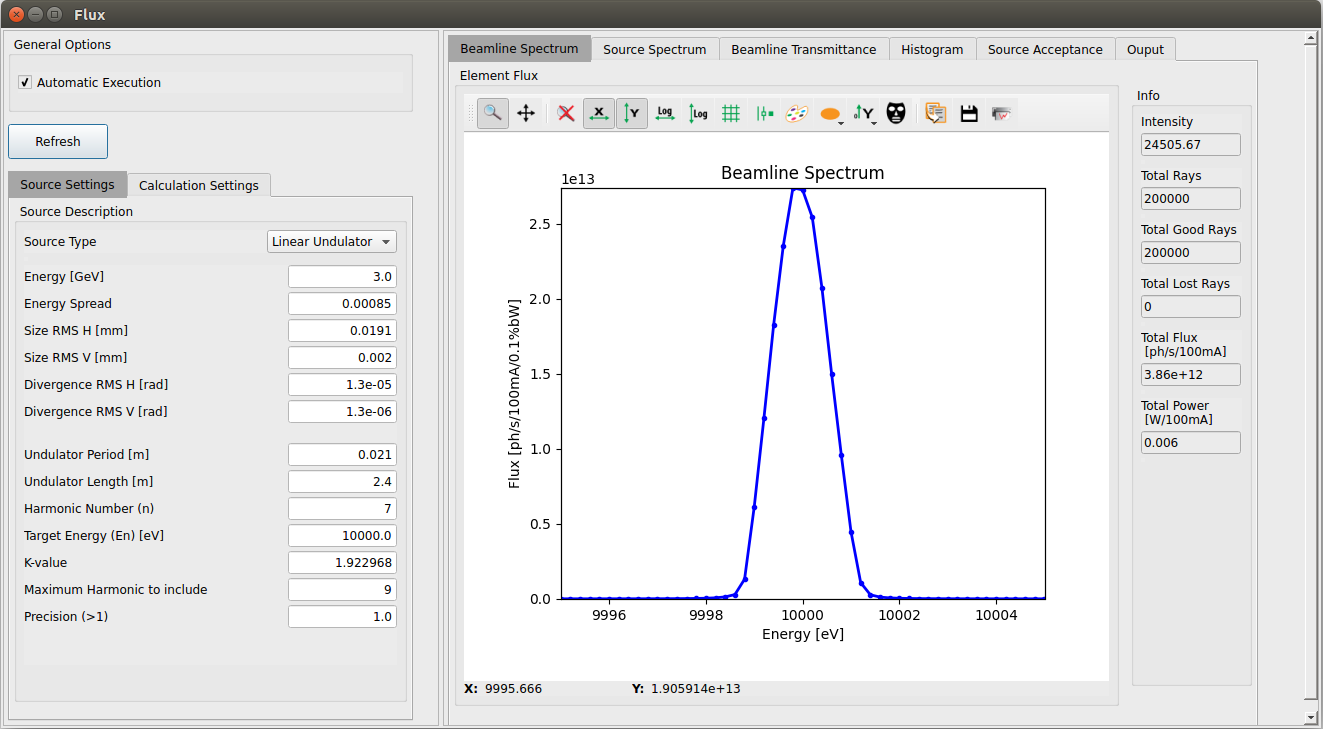
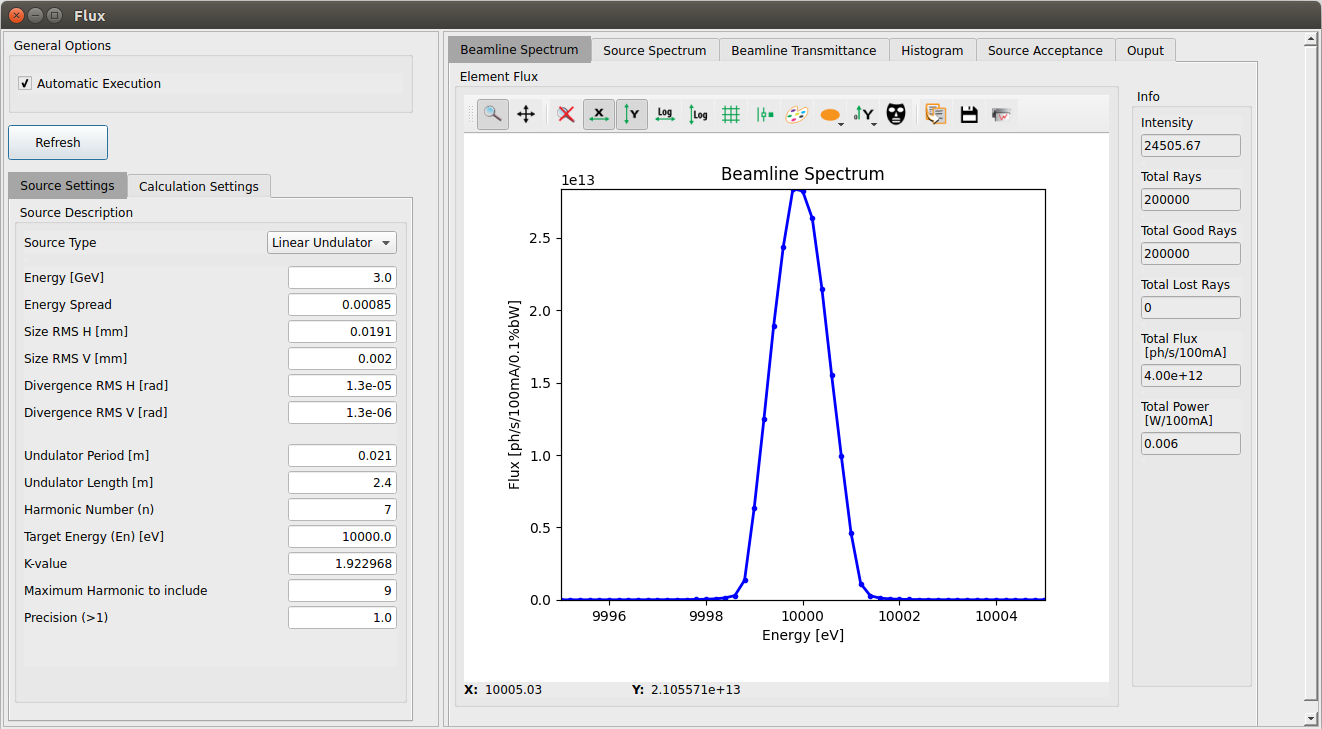
updating readmes

diff --git a/orangecontrib/shadow/lnls/menu/ow_shadow_LNLS_tools_menu.py b/orangecontrib/shadow/lnls/menu/ow_shadow_LNLS_tools_menu.py
@@ -1,6 +1,7 @@
 __author__ = 'labx'
 
 from PyQt5 import QtWidgets
+from PyQt5.QtGui import QPixmap
 from orangecanvas.scheme.link import SchemeLink
 from oasys.menus.menu import OMenu
 
@@ -11,84 +12,19 @@ class ShadowLNLSToolsMenu(OMenu):
         super().__init__(name="Shadow LNLS Tools")
 
         self.openContainer()
-        self.addContainer("Container 1")
-        self.addSubMenu("Submenu 1.1")
-        self.addSubMenu("Submenu 1.2")
-        self.closeContainer()
-        self.openContainer()
-        self.addContainer("Container 2")
-        self.addSubMenu("Submenu 2.1")
-        self.addSubMenu("Submenu 2.2")
-        self.addSeparator()
-        self.addSubMenu("Submenu 2.3")
-        self.closeContainer()
-        self.addSeparator()
-        self.addSubMenu("Submenu 3")
+        self.addContainer("LNLS Help")
+        self.addSubMenu("Help")        
+        self.closeContainer()        
+        
 
     def executeAction_1(self, action):
         try:
-            widget_desc_1 = self.getWidgetDesc("orangecontrib.shadow.widgets.sources.ow_geometrical_source.GeometricalSource")
-            widget_desc_2 = self.getWidgetDesc("orangecontrib.shadow.lnls.widgets.optical_elements.ow_test_widget.TestWidget")
-            widget_desc_3 = self.getWidgetDesc("orangecontrib.shadow.widgets.optical_elements.ow_plane_mirror.PlaneMirror")
-
-            nodes = []
-            messages = []
-
-            widget_1, node_1, messages_1 = self.createNewNodeAndWidget(widget_desc_1)
-            widget_2, node_2, messages_2 = self.createNewNodeAndWidget(widget_desc_2)
-            widget_3, node_3, messages_3 = self.createNewNodeAndWidget(widget_desc_3)
-
-            widget_1.single_line_value = 20000.0
-
-            widget_2.test_value = 34567.0
-
-            widget_3.source_plane_distance = 1000.0
-            widget_3.image_plane_distance = 3000.0
-
-            nodes.append(node_1)
-            nodes.append(node_2)
-            nodes.append(node_3)
-
-            self.createLinks(nodes)
+           self.showHelpMessage("Shadow LNLS Tools Help")
 
         except Exception as exception:
             self.showCriticalMessage(exception.args[0])
 
-    def executeAction_2(self, action):
-        try:
-            self.showWarningMessage("Submenu 1.2")
-
-        except Exception as exception:
-            self.showCriticalMessage(exception.args[0])
-
-    #ENABLE PLOTS
-    def executeAction_3(self, action):
-        try:
-            self.showWarningMessage("Submenu 2.1")
-
-        except Exception as exception:
-            self.showCriticalMessage(exception.args[0])
-
-    def executeAction_4(self, action):
-        try:
-            self.showWarningMessage("Submenu 2.2")
-
-        except Exception as exception:
-            self.showCriticalMessage(exception.args[0])
-
-    def executeAction_5(self, action):
-        try:
-            self.showWarningMessage("Submenu 2.3")
-
-        except Exception as exception:
-            self.showCriticalMessage(exception.args[0])
-
-    def executeAction_6(self, action):
-        try:
-            self.showWarningMessage("Submenu 3")
-
-        except Exception as exception:
-            self.showCriticalMessage(exception.args[0])
+  
 
 
     ###############################################################
@@ -106,7 +42,14 @@ class ShadowLNLSToolsMenu(OMenu):
         msgBox.setDefaultButton(QtWidgets.QMessageBox.No)
 
         return msgBox.exec_()
-
+    
+    def showHelpMessage(self,title):
+        msgBox = QtWidgets.QMessageBox()                
+        msgBox.setText("For widgget theory and examples, access:")
+        msgBox.setInformativeText("<a href='https://github.com/oasys-lnls-kit/OASYS1-LNLS-ShadowOui'>OASYS1-LNLS-ShadowOui/</a> \n")        
+        msgBox.setStandardButtons(QtWidgets.QMessageBox.Ok)         
+        msgBox.exec()
+        
     def showWarningMessage(self, message):
         msgBox = QtWidgets.QMessageBox()
         msgBox.setIcon(QtWidgets.QMessageBox.Warning)

diff --git a/setup.py b/setup.py
@@ -78,7 +78,7 @@ ENTRY_POINTS = {
         "Shadow LNLS Optical Elements = orangecontrib.shadow.lnls.widgets.optical_elements",
         "Shadow LNLS Utility = orangecontrib.shadow.lnls.widgets.utility",
     ),
-    #'oasys.menus' : ("shadowlnlsmenu = orangecontrib.shadow.lnls.menu",)
+    'oasys.menus' : ("shadowlnlsmenu = orangecontrib.shadow.lnls.menu",)
 }
 
 if __name__ == '__main__':

diff --git a/examples/README.md b/examples/README.md
@@ -4,7 +4,7 @@ In this folder you find a few examples of our widgets functionalities and limita
 ## Flux Widget
 
 ### Example A: Flux of an undulator beam after a Double-Crystal Monochromator (DCM) 
-In this example, a highly collimated undulator beam, modeled by a geometric source, passes through a Si(111) DCM, and the flux and power are computed using the Flux Widget. The flux is checked against [SPECTRA code](http://spectrax.org/spectra/index.html) [1] and the simple rule suggested by M. S. del Rio [2]. 
+In this example, a highly collimated undulator beam, modeled by a geometric source, passes through a Si(111) DCM, and the flux and power are computed using the Flux Widget. The flux is checked against [SPECTRA code](http://spectrax.org/spectra/index.html) (see ref. [1]) and the simple rule suggested by M. S. del Rio (see ref. [2]). 
 
 ![widgetsA](https://github.com/oasys-lnls-kit/OASYS1-LNLS-ShadowOui/blob/master/images/ExampleA_widgets.png "widgetsA")
 
@@ -18,9 +18,9 @@ The undulator is set to use the 7th harmonic at 10 keV, and the source parameter
 
 ![fluxA](https://github.com/oasys-lnls-kit/OASYS1-LNLS-ShadowOui/blob/master/images/ExampleA_flux.png "fluxA")
 
-As one can see, the total flux is calculated to be 3.86e+12 ph/s/100mA. To double-check the results, we use SPECTRA to calculate the flux at 10 keV, which yields 3.26e+13 ph/s/0.1%bw/100mA (very close to SRW calculation, shown in the Source Spectrum Tab). We can multiply this value to the simple factor 0.135 to account for the Si(111) DCM bandwidth, which gives 4.4e*12 ph/s/100mA, which is in reasonable agreement with the Flux Widget calculation. It is important to notice that the factor used is a (relatively good) approximation, and in this simulation, the beam is not perfectly collimated, so small deviations are expected. 
+As one can see, the total flux is calculated to be 4.00e+12 ph/s/100mA. To double-check the results, we use SPECTRA to calculate the flux at 10 keV, which yields 3.26e+13 ph/s/0.1%bw/100mA (very close to SRW calculation, shown in the Source Spectrum Tab). We can multiply this value to the simple factor 0.135 (see ref. [2]) to account for the Si(111) DCM bandwidth, which gives 4.4e*12 ph/s/100mA, which is in reasonable agreement with the Flux Widget calculation. It is important to note that the factor used is a (relatively good) approximation, and in this simulation, the beam is not perfectly collimated, so small deviations are expected. 
 
-The Output Tab shows a comprehensive summary of the parameters used, for debbuging (figure below). It is important to check if the source acceptance limits used match the source widget divergence distribution. The horizontal (H) and vertical (V) `threshold` parameters can be used to adjust the acceptance limits, if needed.
+The Output Tab shows a comprehensive summary of the parameters used, for debbuging (figure below). It is important to check if the source acceptance limits used match the source widget divergence distribution. The horizontal (H) and vertical (V) `threshold` parameters, in the Calculation Settings Tab, can be used to adjust the acceptance limits, if needed.
 
 ![outputA](https://github.com/oasys-lnls-kit/OASYS1-LNLS-ShadowOui/blob/master/images/ExampleA_output.png "outputA")
 
@@ -31,10 +31,17 @@ In this example, we show how to calculate total flux and power contained in a br
 - `Partial Vertical Acceptance`: If `No`, it is supposed that the source widget is set in such way that the vertical divergence limits are larger than total vertical divergence of the source. If the divergence limits on the source widget does crop the beam, use the `Yes` option. This will calculate the vertical angular distribution of a bending magnet for each energy and integrate only inside the defined limits.
 - `e-beam Divergence RMS V`: This is an optional parameter. If the value is 0 (zero), it will be ignored. If it is larger than 0, the electron beam divergence sigma (RMS) in the vertical direction will be convolved with the radiation angular probability density function to include the finite emittance. Note that the approximation that the radiation contribution is much large than the electron beam divergence is very good for most cases.
 
+The bending magnet parameters are the standard, and the first hamonic of the multilayer is set to about 32.0 keV (figure below).
+ 
+![widgetsB](https://github.com/oasys-lnls-kit/OASYS1-LNLS-ShadowOui/blob/master/images/ExampleB_widgets.png "widgetsB")
+
+
+
 
 ## References 
 
 [1] [T. Tanaka and H. Kitamura, Journal of Synchrotron Radiation 8, 1221 (2001)](https://doi.org/10.1107/S090904950101425X)
+
 [2] [Manuel Sanchez del Rio, Olivier Mathon, Proc. SPIE 5536, (2004)](https://doi.org/10.1117/12.559326)
 
 
